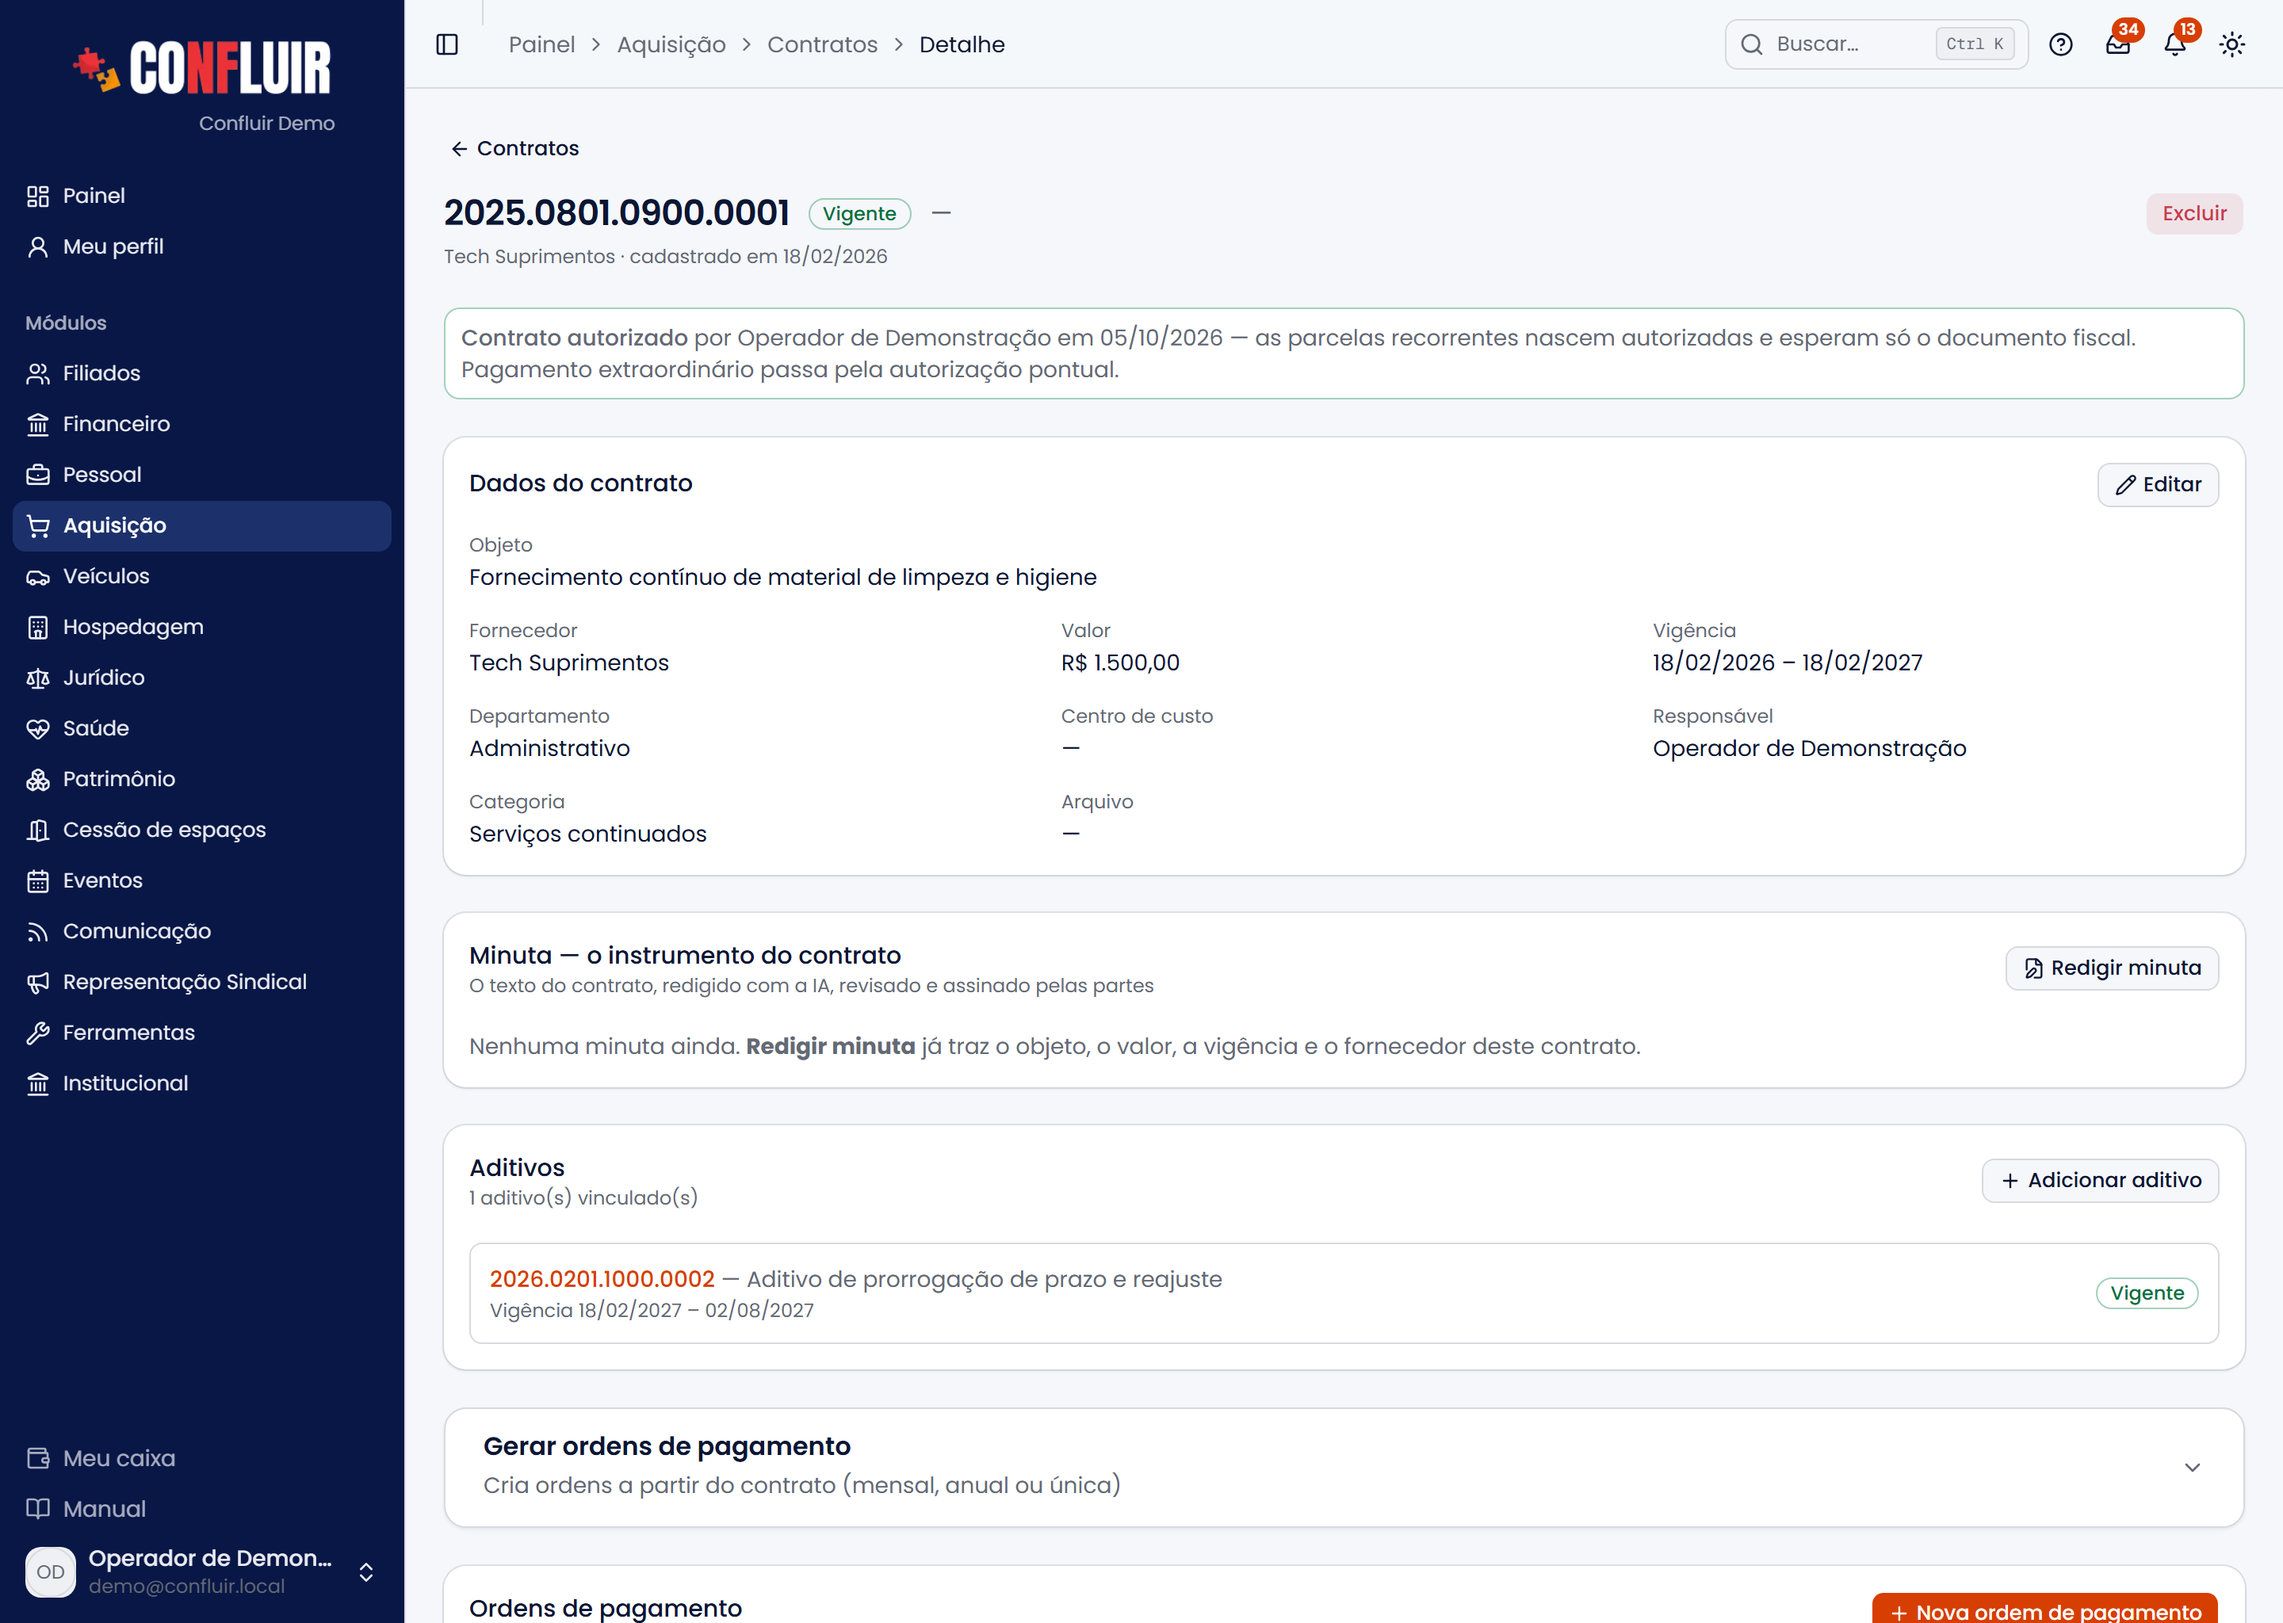
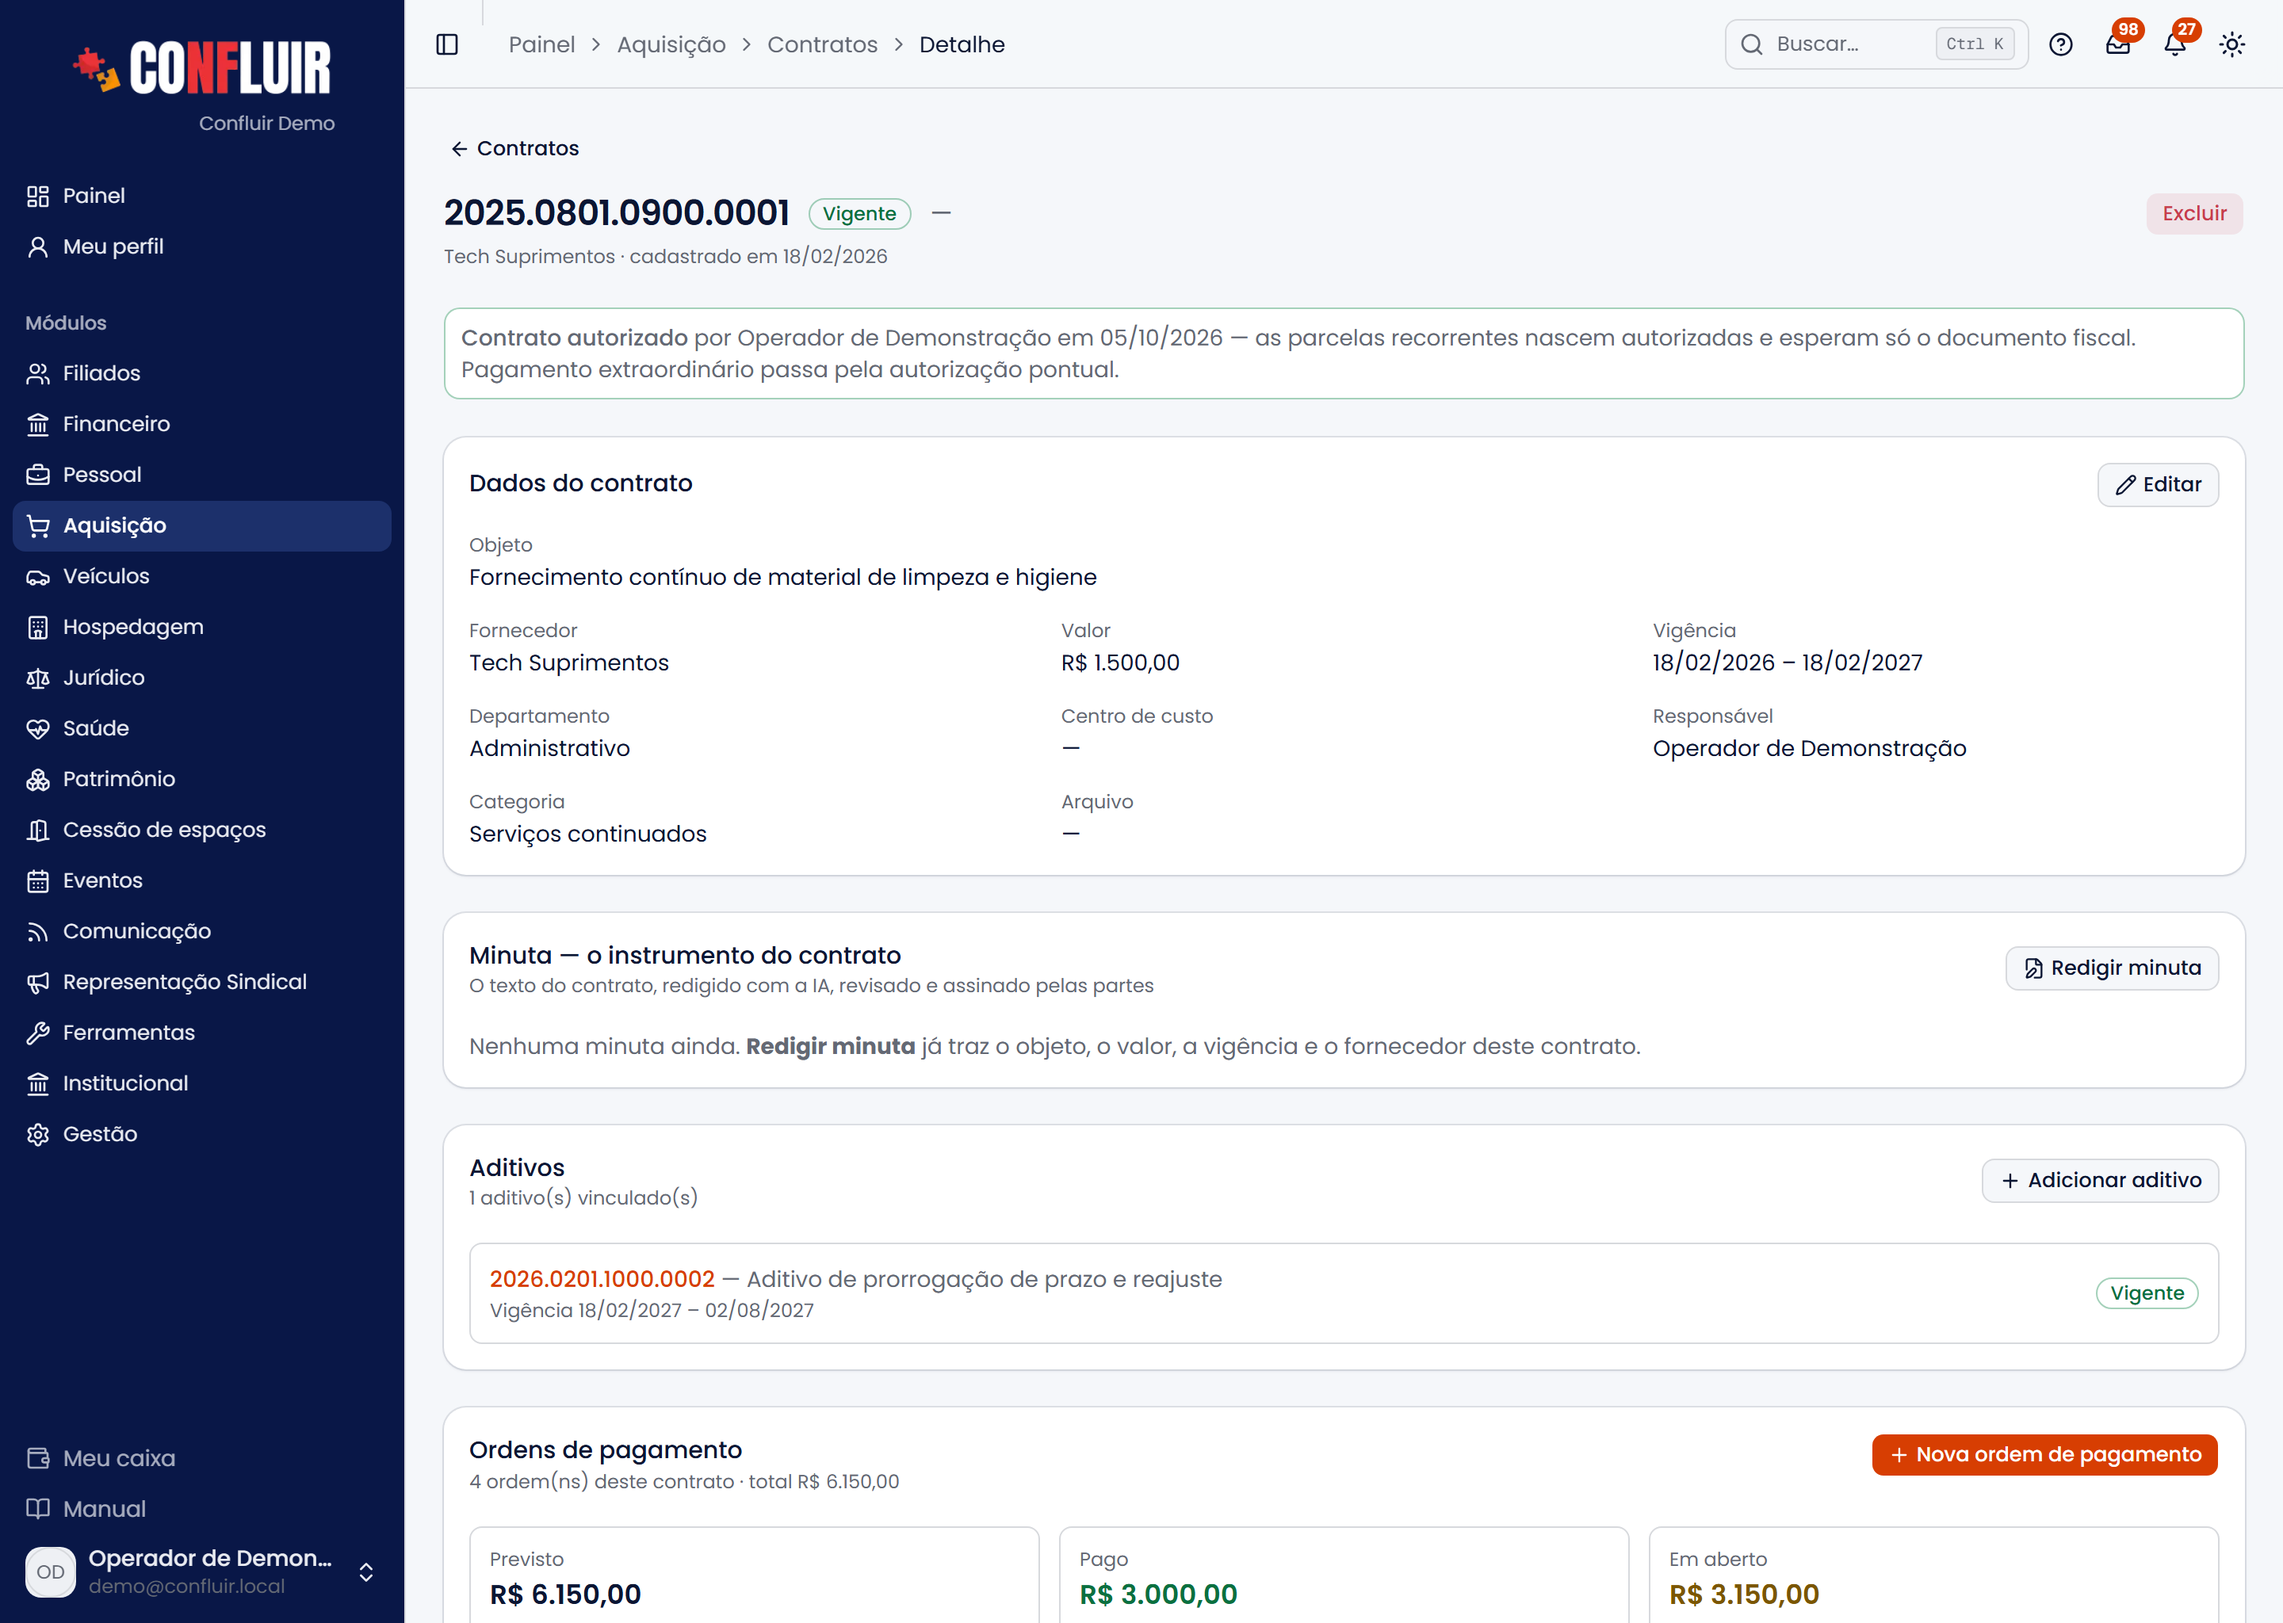
Contrato: gerar ordens só pelo botão Nova ordem de pagamento
- Sai o cartão colapsável "Gerar ordens de pagamento" do meio da página;
  o mesmo formulário segue no botão do cartão Ordens de pagamento.
- Manual de contratos (texto e print compras/contrato.png) e novidades.

diff --git a/src/lib/novidades.ts b/src/lib/novidades.ts
@@ -19,6 +19,7 @@ export const NOVIDADES: Novidade[] = [
       "Financeiro → Corrigir ordem: o valor de uma ordem já autorizada é comparado com o que foi aprovado. Para menos (ou até o aprovado), a autorização continua valendo e a ordem segue para pagamento — o caso do valor digitado errado; para mais, ela volta para autorização. O histórico diz qual dos dois aconteceu. Na ordem de uma compra, o valor da compra acompanha a correção, e os indicadores de Aquisição também. Ordem de RPA não tem o valor corrigido por ali, porque é o líquido do recibo: com o recibo errado, exclua o RPA e emita de novo.",
       "Caixa: aprovar e reconhecer andam juntos. Quem é o responsável pelo caixa e aprova a ordem de uma compra debitada nele já reconhece a despesa, sem passar pelo Para reconhecer. E, ao reconhecer no Meu caixa (ou pelo Telegram) a compra que outra pessoa lançou, a ordem em autorização é aprovada junto, se o valor está dentro da sua alçada.",
       "Contratos e ajudas: ao gerar ordens, a parcela de uma ordem cancelada pode ser gerada de novo; antes, o vencimento ficava ocupado e a parcela era pulada. O Primeiro vencimento agora sugere a parcela seguinte à última lançada (nunca uma data passada), mostra qual foi a última e avisa quando a data escolhida está no passado ou antes dela.",
+      "Na página do contrato, as parcelas se geram só pelo botão Nova ordem de pagamento, no cartão Ordens de pagamento; saiu o cartão repetido Gerar ordens de pagamento do meio da página.",
     ],
   },
   {

diff --git a/src/app/painel/compras/contratos/[id]/page.tsx b/src/app/painel/compras/contratos/[id]/page.tsx
@@ -29,7 +29,6 @@ import {
   TableRow,
 } from "@/components/ui/table"
 import { Paginacao } from "@/components/paginacao"
-import { GrupoColapsavel } from "@/components/grupo-colapsavel"
 import { requirePermissao } from "@/lib/auth"
 import {
   buscarContrato,
@@ -549,25 +548,7 @@ export default async function ContratoPage({
         </CardContent>
       </Card>
 
-      {podeEditar && !novaOrdem && (
-        <GrupoColapsavel
-          titulo="Gerar ordens de pagamento"
-          descricao="Cria ordens a partir do contrato (mensal, anual ou única)"
-        >
-          <GerarOrdensForm
-            contratoId={c.id}
-            valorPadrao={c.valor}
-            vigenciaInicio={c.vigencia_inicio}
-            vigenciaTermino={c.vigencia_termino}
-            hoje={hojeLocalISO()}
-            ultimoVencimento={ultimoVencimento}
-            temFornecedor={Boolean(c.fornecedor_id)}
-            fornecedorId={c.fornecedor_id}
-            caixas={caixas}
-          />
-        </GrupoColapsavel>
-      )}
-
+      {/* Gerar ordens: um caminho só, "Nova ordem de pagamento" no cartão das ordens. */}
       {aguardandoDocumento.length > 0 && (
         <Card className="border-warning/40">
           <CardHeader>

diff --git a/docs/produto/notas-de-versao.md b/docs/produto/notas-de-versao.md
@@ -7,6 +7,7 @@ O que mudou para quem usa o Confluir, da entrega mais recente para a mais antiga
 ## 24/11/2026 — Contratos: parcela no lugar de uma cancelada
 
 - Contratos e ajudas: ao gerar ordens, a parcela de uma ordem cancelada pode ser gerada de novo; antes, o vencimento ficava ocupado e a parcela era pulada. O Primeiro vencimento agora sugere a parcela seguinte à última lançada (nunca uma data passada), mostra qual foi a última e avisa quando a data escolhida está no passado ou antes dela.
+- Na página do contrato, as parcelas se geram só pelo botão Nova ordem de pagamento, no cartão Ordens de pagamento; saiu o cartão repetido Gerar ordens de pagamento do meio da página.
 
 ## 23/11/2026 — Aquisição: valor de compra fora da escala
 
